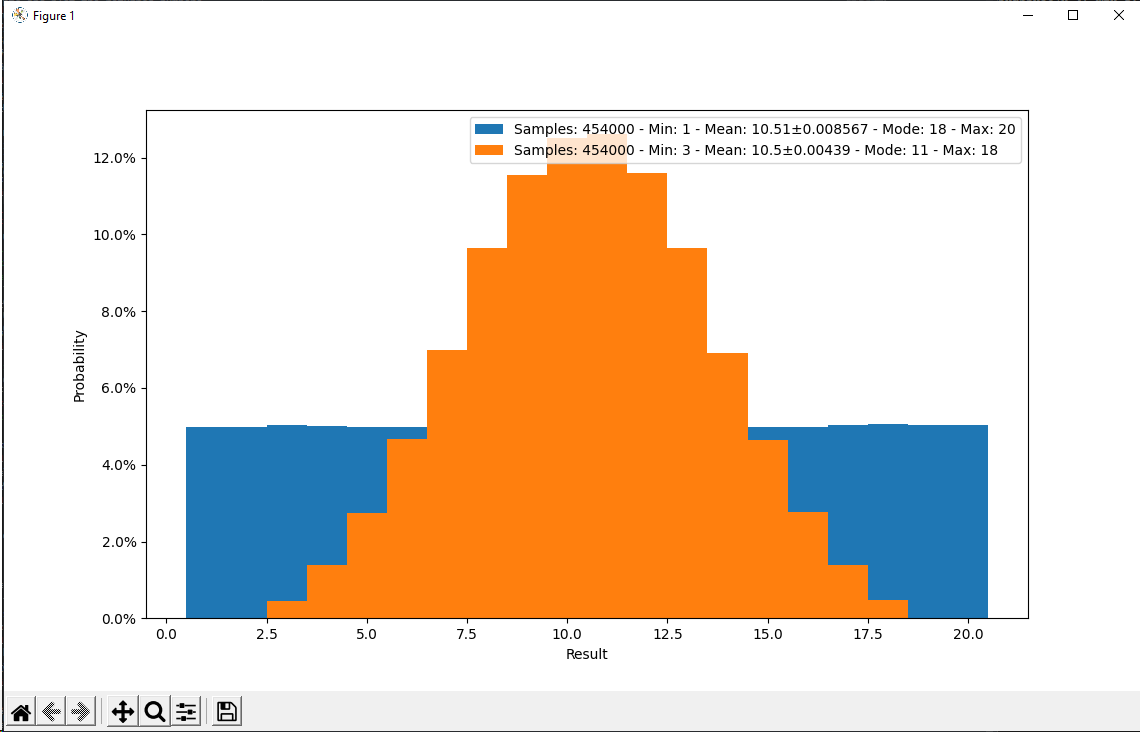
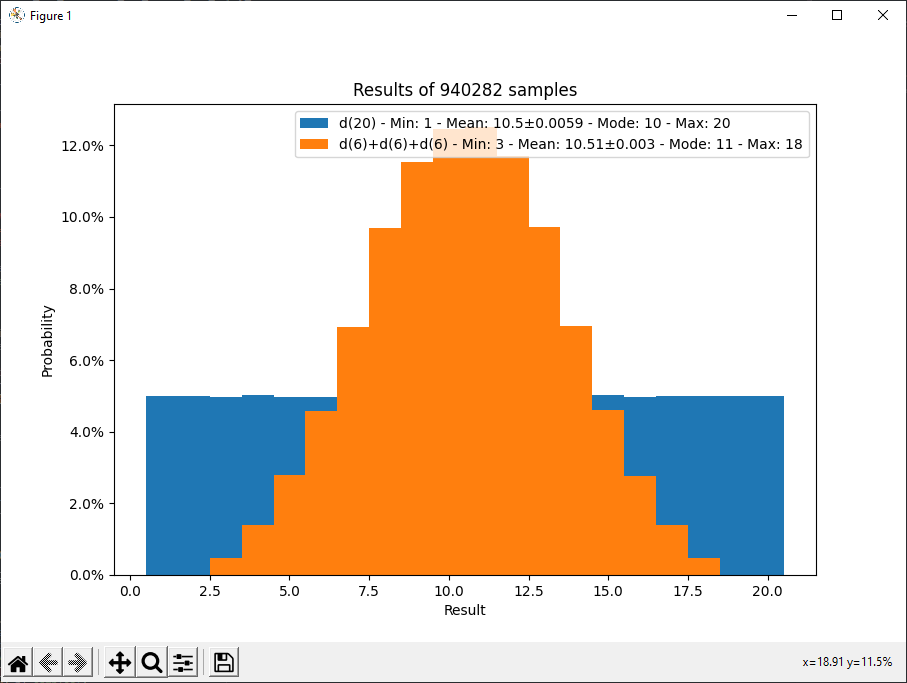
Include source functions in legend if available

diff --git a/carlo.py b/carlo.py
@@ -1,6 +1,7 @@
 import math
 import multiprocessing
 import matplotlib.ticker as mtick
+from itertools import zip_longest
 from matplotlib import pyplot as plt
 from collections import namedtuple
 
@@ -19,7 +20,7 @@ class Digest:
     operations are sufficient to always cover incoming values, at the cost
     of having up to 50% of bins empty.
     """
-    def __init__(self, n_bins, seed_value, is_int=None):
+    def __init__(self, n_bins, seed_value, is_int=None, label=None):
         """
         Initializes the running digest.
         - `n_bins`: the number of bins to divide the histogram in. Note that
@@ -30,6 +31,7 @@ class Digest:
         - `is_int`: is True, forces the start and end values of bins to be
         integers. If None, automatically decides this based on the seed value.
         """
+        self.label = label
         if n_bins % 2 == 1:
             raise ValueError(f'Number of bins must be even, got {n_bins}.')
         self.results = []
@@ -136,10 +138,10 @@ class Digest:
         """
         bins_dict = {self.bins_start + self.bins_width * i: bin_value for i, bin_value in enumerate(self.bins) if bin_value}
         variance = float('nan') if self.n == 1 else self.msq / (self.n - 1)
-        return Snapshot(self.n, self.min, self.max, self.mean, variance, self.bins_width, bins_dict, self.is_int)
+        return Snapshot(self.n, self.min, self.max, self.mean, variance, self.bins_width, bins_dict, self.is_int, self.label)
 
 # A snapshot of the running digest, necessary to maintain thread-/process- safety.
-Snapshot = namedtuple('Snapshot', 'n min max mean variance bins_width bins is_int')
+Snapshot = namedtuple('Snapshot', 'n min max mean variance bins_width bins is_int label')
 
 def _run_plot(receiver_pipe):
     """
@@ -148,6 +150,7 @@ def _run_plot(receiver_pipe):
     """
     # Black magic helper function to format a number to 4 significant places.
     format_number = lambda n: f'{float(f"{n:.4g}"):g}'
+    format_number2 = lambda n: f'{float(f"{n:.2g}"):g}'
 
     def draw(snapshots):
         """  Updates the rendering with the given snapshot. """
@@ -166,9 +169,10 @@ def _run_plot(receiver_pipe):
             else:
                 stdev = math.sqrt(snapshot.variance)
                 mean_error = stdev / math.sqrt(snapshot.n)
-                mean_error_str = f'±{format_number(mean_error)}'
-            label = f'Samples: {format_number(snapshot.n)} - Min: {format_number(snapshot.min)} - Mean: {format_number(snapshot.mean)}{mean_error_str} - Mode: {format_number(mode)}{mode_error} - Max: {format_number(snapshot.max)}'
-            plt.bar(snapshot.bins.keys(), [value / snapshot.n for value in snapshot.bins.values()], width=snapshot.bins_width, label=label)
+                mean_error_str = f'±{format_number2(mean_error)}'
+            legend = f'{snapshot.label} - Min: {format_number(snapshot.min)} - Mean: {format_number(snapshot.mean)}{mean_error_str} - Mode: {format_number(mode)}{mode_error} - Max: {format_number(snapshot.max)}'
+            plt.bar(snapshot.bins.keys(), [value / snapshot.n for value in snapshot.bins.values()], width=snapshot.bins_width, label=legend)
+        plt.title(f'Results of {snapshots[0].n} samples')
         plt.legend()
         plt.draw()
 
@@ -194,7 +198,7 @@ def _run_plot(receiver_pipe):
             # that's too unrelated from this code to import. Just catch everything.
             break
 
-def plot(*sequences_or_fns, n=float('inf'), n_bins=100, is_int=None):
+def plot(*sequences_or_fns, n=float('inf'), n_bins=100, is_int=None, labels=None):
     """
     Plots a sequence of values, or the results of repeatedly calling the given
     function. The statistics of the values is continually updated and shown in
@@ -230,7 +234,9 @@ def plot(*sequences_or_fns, n=float('inf'), n_bins=100, is_int=None):
     plot_process = multiprocessing.Process(target=_run_plot, args=(receiver_pipe,))
     plot_process.start()
 
-    digests = [Digest(n_bins=n_bins, seed_value=next(iterator), is_int=None) for iterator in iterators]
+    digests = []
+    for label, iterator in zip_longest(labels, iterators):
+        digests.append(Digest(n_bins=n_bins, seed_value=next(iterator), is_int=is_int, label=label))
     # Manual counting with a while loop to accommodate `n=float('inf')`.
     i = 0
     # The plot_process will die when the user closes the window, and we should
@@ -269,10 +275,12 @@ if __name__ == '__main__':
         # Usage:
         #     $ python -m carlo 'd(6)+d(12)'
         sequences_or_fns = [(lambda arg=arg: eval(arg)) for arg in sys.argv[1:]]
+        labels = sys.argv[1:]
     else:
         # TODO: fix broken example
         # Usage:
         #     $ echo "1 2 3" | python -m carlo
         sequences_or_fns = [(number for line in sys.stdin for number in map(float, re.findall(r'\d+\.?\d*', line)))]
+        labels = None
 
-    print(plot(*sequences_or_fns))
+    print(plot(*sequences_or_fns, labels=labels))
